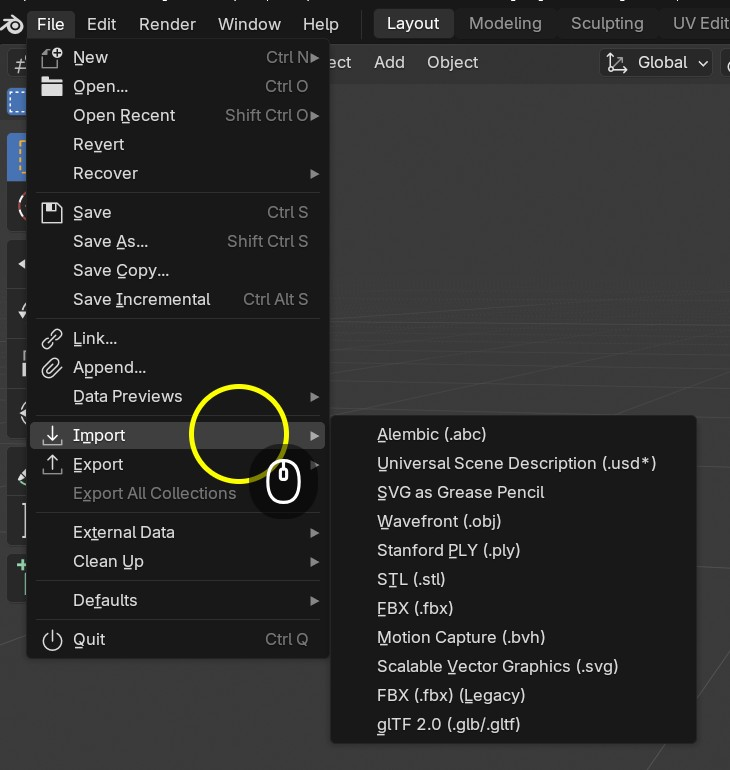
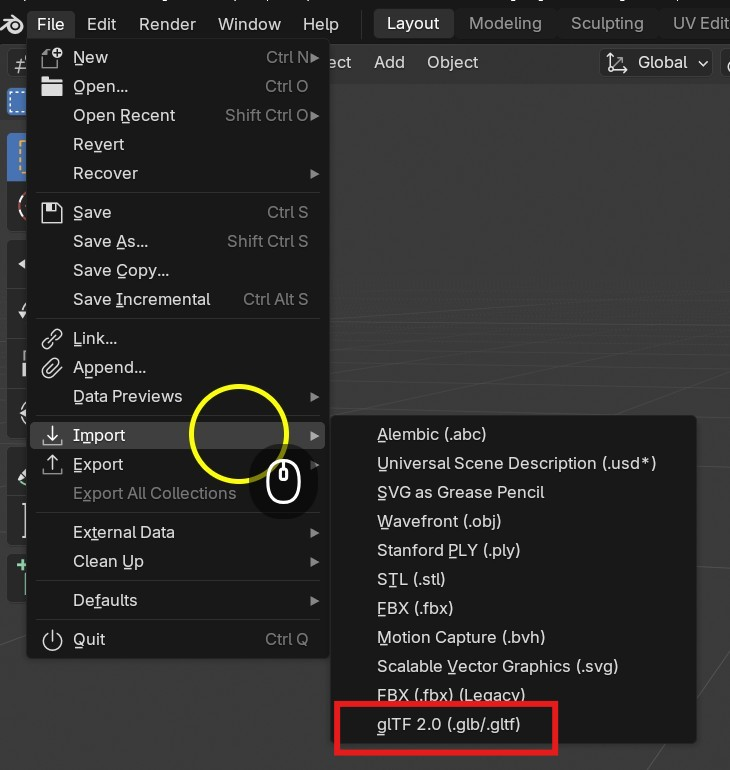
checked week 5

Changed region(s): [[0.4521, 0.9039, 0.7836, 0.9974]]

diff --git a/week_5_lighting_and_rendering/README.md b/week_5_lighting_and_rendering/README.md
@@ -1,12 +1,12 @@
 # Rendering
 
-In this worksheet we will guide you through adding lights, controlling the camera and finally rendering you scene to a an image file.
+In this worksheet I will guide you through adding lights, controlling the camera and finally rendering you scene to a an image file.
 
 ## Import assets
 
 First you will need an object to render. I have given you a pumpkin model.
 
-You can download it here
+You can download it here:
 
 [Pumpkin glb file](assets/pumpkin.glb)
 
@@ -18,12 +18,11 @@ and choose
 
 **glTF 2.0 (.glb/.gltf)**
 
+![import Gltf file in blender](images/import_glb.jpg)
 
-![](images/import_glb.jpg)
+Here is a video showing you to do it if you get stuck:
 
-Here is a video showing you to do it:
-
-[<img alt="video showing how to connect import a Glb file" src="images/video_3_slide.jpg">](https://uwe.cloud.panopto.eu/Panopto/Pages/Viewer.aspx?id=df66ec03-7700-4826-93fe-b4940093d2b7)
+[<img alt="video showing how to connect import a Glb file" src="images/video_1-import.jpg">](https://uwe.cloud.panopto.eu/Panopto/Pages/Viewer.aspx?id=df66ec03-7700-4826-93fe-b4940093d2b7)
 
 ## Camera
 
@@ -31,9 +30,11 @@ The default scene in Blender contains a Camera
 
 ![default camera in Blender](images/default_camera.jpg)
 
-You can look through the camera using the camera button.
+-  look through the camera using the camera button.
 
-Lock the camera so that it follows you around the scene.
+The red rectangle shows you are currenly looking through the camera
+
+ - Lock the camera so that it follows you around the scene.
 
 ![look through camera button](images/look_through_camera.jpg)
 
@@ -43,19 +44,26 @@ With the camera selected, you can see its properties if you choose the camera ic
 
 The camera mimics a real video camera, so you can change the focal length, depth of field, f-stop and lots of other properties to get the result you want.
 
-![](images/camera_properties.jpg)
+![camera properties](images/camera_properties.jpg)
 
-If you cannot see any changes in your scene, make sure your viewport shading is set to **render**
+Make sure your viewport shading is set to **render**
 
-![](images/viewport_render_mode.jpg)
+![render modes](images/viewport_render_mode.jpg)
 
-Here is a video showing you how to move and change the camera properties:
+Experiment with the **Depth of Field** propery.
 
+- Turn it on
+- Change the f-stop to somthing small (1.8)
+- use the eye dropper next to the focal distance to select the pumpkin.
+
+![Depth of field property](images/depth_of_field.jpg)
+
+If you get stuck, watch this video:
 [<img alt="video showing how to connect  move and change the blender camera" src="images/video_2-camera.jpg">](https://uwe.cloud.panopto.eu/Panopto/Pages/Viewer.aspx?id=2e203323-a7ac-47a9-8ae9-b494009a6287)
 
 ## Lighting
 
-Without lighing our scene would be dark
+Without lighting our scene would be dark
 
 In a default scene Blender gives us one point light
 
@@ -88,19 +96,19 @@ You can choose from four different types
 	+ Position does not matter, only rotation
 - Spot
 	+ Like a theatre spotlight
-	+ produces a cone of light in one direction
+	+ Produces a cone of light in one direction
 	+ Angle and blend can be adjusted
 - Area
-	+ a rectangular panel of light
-	+ only shines from one side
-	+ can be scales
-	+ great for windows or openings
+	+ A rectangular panel of light
+	+ Only shines from one side
+	+ Can be scales
+	+ Great for windows or openings
 	
-Experiment with all these lights in your scene.
+- Experiment with all these lights in your scene.
 
-They can even be put inside objects.
+They can even be put inside objects, for instance, inside the pumpkin.
 
-This video shows you how to add and edit lights:
+This video shows you how to add and edit lights if you get stuck:
 
 [<img alt="video showig how to add and edit lights in Blender" src="images/video_3_lights.jpg">](https://uwe.cloud.panopto.eu/Panopto/Pages/Viewer.aspx?id=be42ad13-12b0-4b33-a03b-b494009d77c0)
 
@@ -108,18 +116,19 @@ This video shows you how to add and edit lights:
 
 Objects can give off light by giving changing their materials emission property.
 
-Create new a new uv Sphere and scale and position it behind the eye
+- Create new a new uv Sphere and scale and position it behind the eye
 
 ![add uv sphere from top menu in blender](images/uv_sphere.jpg)
 
-Create a new material called
+- Create a new material
 
-![add new material in Blender
-](images/new_material.jpg)
+![add new material in Blender](images/new_material.jpg)
 
 Change the Emission **colour** and **strength**
 
 ![emission menu on Material](images/emission_colour.jpg)
+
+Your eye should now glow.
 
 This video shows you how to add emission to materials:
 
@@ -139,9 +148,9 @@ We want to check resolution is **1920** by **1080** pixels (px).
 
 ### Render properties
 
-We can now choose our render, you can access the render properties just above the Output properties.
+We can now choose our renderer, you can access the render properties just above the output properties.
 
-![](images/render_settings.jpg)
+![render settings](images/render_settings.jpg)
 
 Blender has 2 main renders, **EEVEE** and **Cycles**
 
@@ -151,15 +160,16 @@ You can change between them from the dropdown
 
 You can use either one for this project but they are different.
 
-Eevee is very fast but it lacks some of the advanced features which allow Cycles to produce photo realistic renders.
+**Eevee** is very fast but it lacks some of the advanced features which allow **Cycles** to produce photo realistic renders.
 
 If you have a slower machine it may take a long time to render out a single cycles image.
 
-They both have many properties you can change for Viewport Rendering and final Rendering.
+They both have many properties you can change for Viewport Rendering and final Rendering.r
 
-The viewport will use the selected rendere when in **Rendered** mode
+The viewport will use the selected renderer when in **Rendered** mode.
 
-![](images/viewport_render_mode.jpg)
+![render mode](images/viewport_render_mode.jpg)
+
 ### Eevee
 
 You can experiment with all the properties, but a quick win to improve your image turn on **Raytracing**
@@ -168,7 +178,7 @@ You can experiment with all the properties, but a quick win to improve your imag
 
 ### Cycles
 
-By default, cycles will be very slow, there is always a trade off between speed and render quality, but for a simple scene there are some things you can change
+By default, cycles can be slow to render, there is always a trade off between speed and render quality, but for a simple scene there are some things you can change
 
 - Reduce the **max samples**
 - Add **Denoise**
